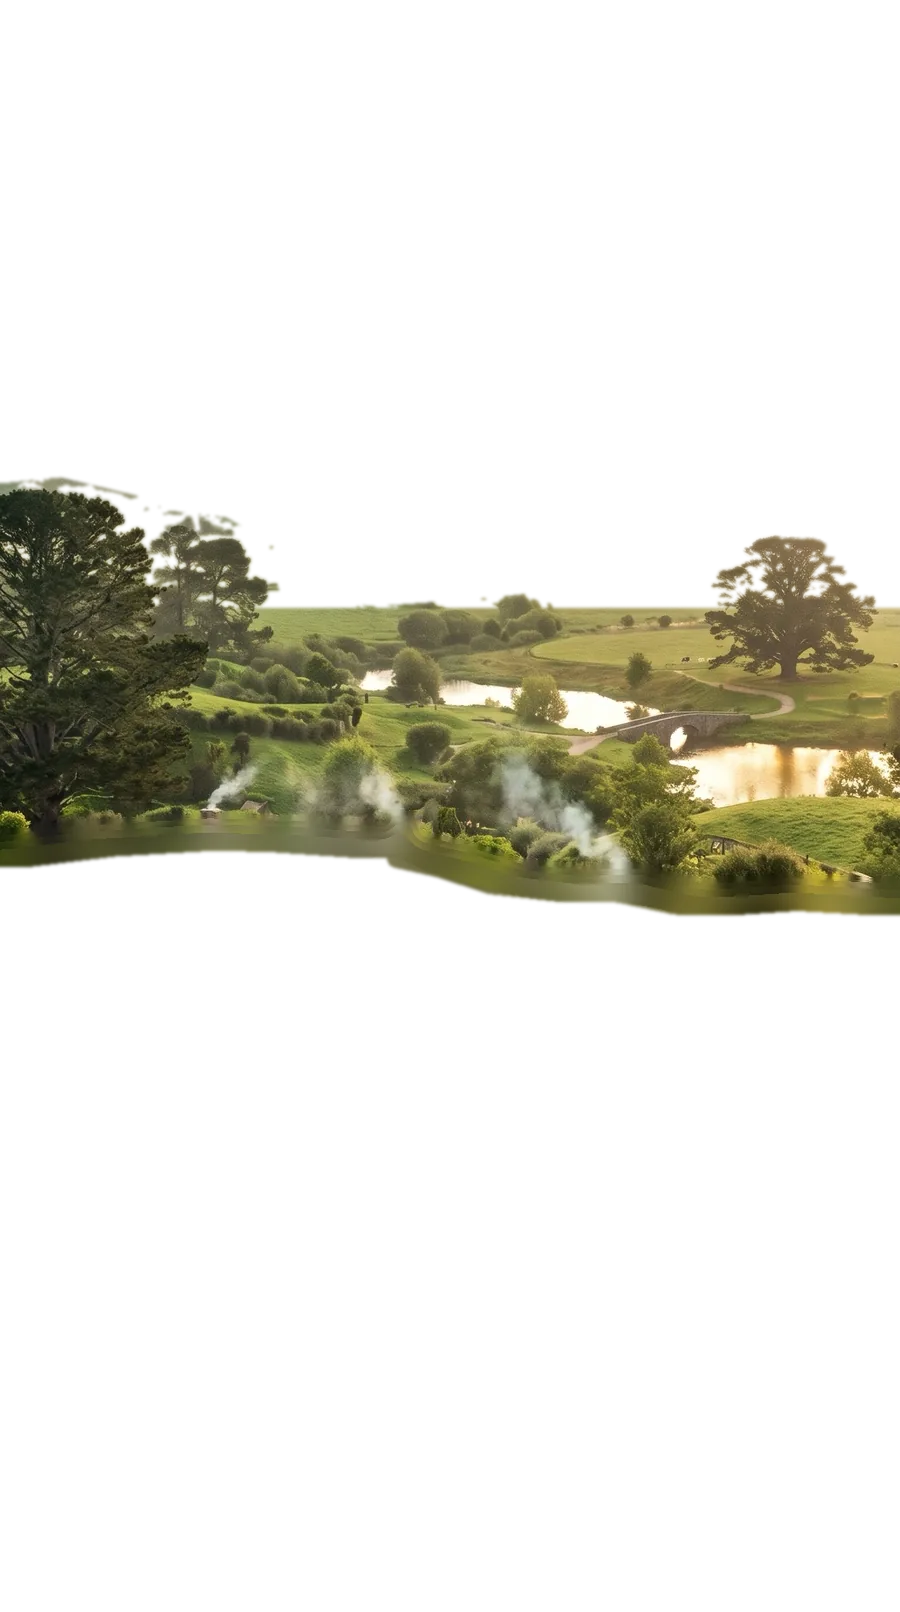
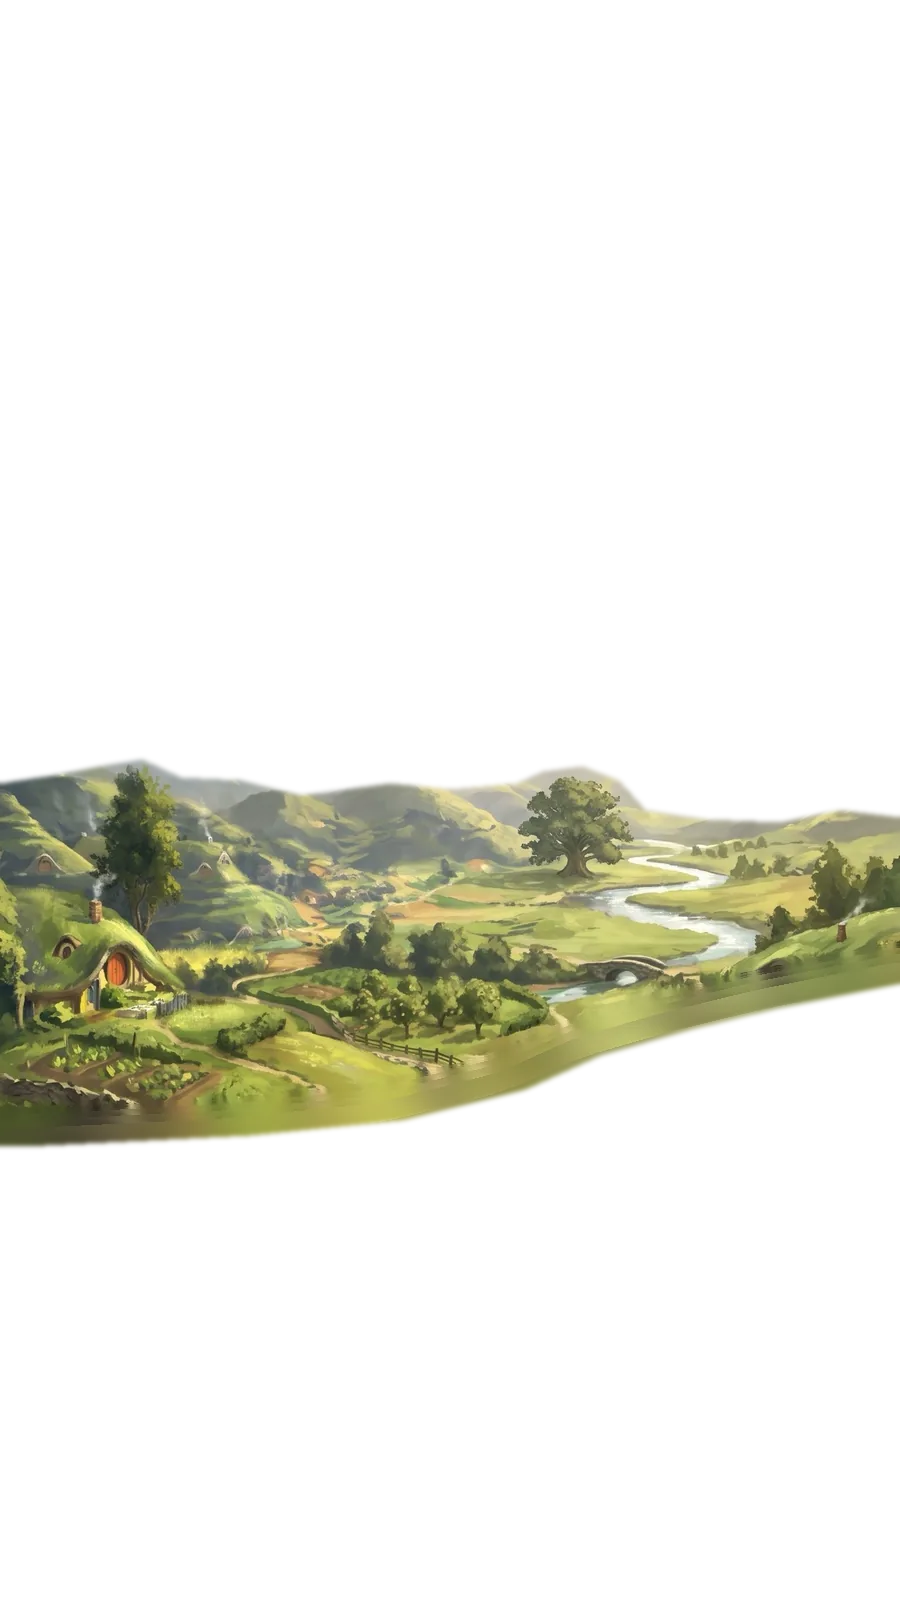
Use the painted Shire for the title backdrop
Five layers again: sky, mountains, the green valley with its river and
great tree, the hillside smial and path, and the meadow in front.

Claude-Session: https://claude.ai/code/session_019NT2n6NGUoP5gXDJDWeBSi

diff --git a/app/screens/shire.js b/app/screens/shire.js
@@ -1,9 +1,9 @@
 /**
- * The title screen's backdrop: a picture of the Shire at dawn, cut into depth layers
- * (app/title/layer-N.webp, made by tools/title/make-layers.py), far to near: the sky, the misty
- * hills, the fields and river with their trees, the far smial's hill, the near hill and the path.
+ * The title screen's backdrop: a painting of the Shire, cut into depth layers
+ * (app/title/layer-N.webp, made by tools/title/make-layers.py), far to near: the sky, the mountains,
+ * the green valley with its river and great tree, the hillside smial and path, the meadow in front.
  *
- * The game's name is a layer of its own, set in the sky above the hills: the logo
+ * The game's name is a layer of its own, set in the sky above the mountains: the logo
  * (app/title/logo.webp, made by tools/title/make-logo.py), gold letters with the black cut away.
  *
  * Once the layers have loaded, the camera pulls back from close in, each layer by its depth (`--d`,
@@ -24,7 +24,7 @@ const layer = (el, depth) => {
 export function shire(h) {
   const images = LAYERS.map((depth, i) => layer(h('img.rv-layer', { src: `app/title/layer-${i}.webp`, alt: '', decoding: 'async', draggable: 'false' }), depth));
   const title = layer(h('div.rv-layer.rv-title', h('h1.logo-big', h('img.logo-img', { src: 'app/title/logo.webp', alt: 'Istari', decoding: 'async', draggable: 'false' }))), TITLE_DEPTH);
-  // Far to near: the sky and hills, shade for the words, the name, then the fields, the smials and the path.
+  // Far to near: the sky and mountains, shade for the words, the name, then the valley, the hillside and the meadow.
   const el = h(`div.rv${introPlayed ? '.settled' : ''}`, images[0], images[1], h('div.rv-scrim-top', { 'aria-hidden': 'true' }), title,
     ...images.slice(2), h('div.rv-motes', { 'aria-hidden': 'true' }), h('div.rv-scrim', { 'aria-hidden': 'true' }));
   // Start the move only when every layer can be shown, so it never begins on a half-drawn scene.

diff --git a/sw.js b/sw.js
@@ -3,7 +3,7 @@
  * cache and refreshed in the background (so a new version shows on the next
  * visit); card images from Scryfall's CDN are cached once and kept.
  */
-const VERSION = 'istari-v23';
+const VERSION = 'istari-v24';
 const SHELL = [
   './', 'index.html', 'app/app.css', 'app/main.js', 'manifest.webmanifest', 'app/icons/icon.svg',
   'app/vendor/symbols.css', 'app/vendor/mana.woff2', 'app/vendor/keyrune.woff2',

diff --git a/tools/title/make-layers.py b/tools/title/make-layers.py
@@ -1,12 +1,12 @@
 #!/usr/bin/env python3
 """
-Cuts the title screen's picture (tools/title/source.jpg, the Shire at dawn) into depth layers for its
+Cuts the title screen's picture (tools/title/source.jpg, a painting of the Shire) into depth layers for its
 parallax zoom, as app/title/layer-N.webp (0 farthest). Dev-only; needs Pillow and numpy.
 
     python3 tools/title/make-layers.py
 
 The picture is scaled to WIDTH pixels wide. Each layer is a hand-drawn region (REGIONS, in pixels of
-the picture at REF wide), refined in places by brightness (the dark trees against the misty hills).
+the picture at REF wide).
 Where a nearer layer covers a farther one, the farther one is filled in a little way under the nearer
 layer's edge (by diffusing the colors around it), so the gap a camera move opens shows scenery rather
 than a hole.
@@ -25,24 +25,26 @@ UNDER = 22     # px a layer is filled in under the edge of the layers in front o
 
 # Far to near, after the sky (layer 0, the whole picture). Polygons are (x, y) at REF.
 REGIONS = {
-    # The misty hills on the horizon, and everything below them. Mist: a soft edge.
-    'hills': dict(feather=6, polys=[
-        [(0, 292), (100, 282), (200, 274), (300, 271), (400, 275), (500, 280), (600, 286), (600, 1075), (0, 1075)],
+    # The mountains at the head of the valley, and everything below them. Haze: a soft edge.
+    'mountains': dict(feather=5, polys=[
+        [(0, 468), (50, 462), (100, 468), (150, 484), (200, 478), (250, 466), (300, 453), (350, 454), (400, 470),
+         (430, 478), (470, 458), (500, 444), (550, 432), (600, 425), (600, 1075), (0, 1075)],
     ]),
-    # The fields, the river and its bridge, and the big trees, left and right.
-    'fields': dict(feather=2, trees=405, polys=[
-        [(0, 322), (40, 318), (90, 330), (112, 340), (150, 345), (182, 362), (186, 398), (250, 404), (330, 398),
-         (400, 390), (462, 384), (470, 355), (520, 350), (568, 362), (592, 392), (600, 398), (600, 1075), (0, 1075)],
+    # The green valley: its hills, the far smials, the great tree, the river and its bridge.
+    'valley': dict(feather=3, polys=[
+        [(0, 522), (40, 516), (70, 510), (95, 506), (120, 518), (160, 520), (200, 530), (260, 522), (300, 526),
+         (345, 522), (362, 514), (388, 511), (412, 520), (430, 540), (470, 546), (520, 548), (560, 540), (600, 545),
+         (600, 1075), (0, 1075)],
     ]),
-    # The far smial's hill with the green door, and the gardens behind the near one.
-    'smials': dict(feather=3, polys=[
-        [(0, 556), (60, 549), (140, 544), (200, 546), (258, 550), (262, 543), (276, 543), (280, 556), (310, 563),
-         (345, 574), (398, 580), (432, 580), (470, 588), (530, 584), (600, 588), (600, 1075), (0, 1075)],
+    # The hillside with the blue-door smial, the fences and the winding path.
+    'hillside': dict(feather=4, polys=[
+        [(0, 742), (150, 735), (250, 725), (330, 705), (380, 682), (440, 665), (500, 650), (560, 638), (600, 630),
+         (600, 1075), (0, 1075)],
     ]),
-    # The near hill with the blue and yellow doors, and the path, fences and bushes in front.
-    'near': dict(feather=3, polys=[
-        [(600, 596), (520, 596), (470, 600), (434, 612), (432, 578), (398, 578), (396, 614), (350, 624), (300, 640),
-         (262, 664), (228, 698), (208, 748), (184, 790), (146, 836), (104, 858), (60, 862), (0, 872), (0, 1075), (600, 1075)],
+    # The meadow in front: long grass, bushes and flowers.
+    'meadow': dict(feather=5, polys=[
+        [(0, 852), (100, 860), (200, 885), (300, 895), (370, 880), (400, 862), (450, 855), (520, 862), (560, 880),
+         (600, 880), (600, 1075), (0, 1075)],
     ]),
 }
 ORDER = ['sky', *REGIONS]
